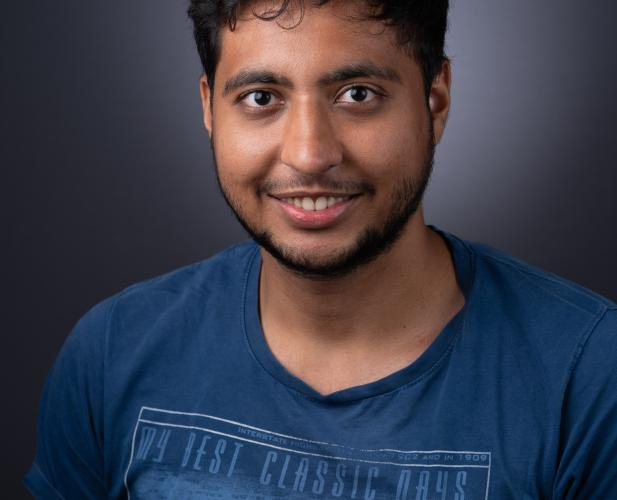
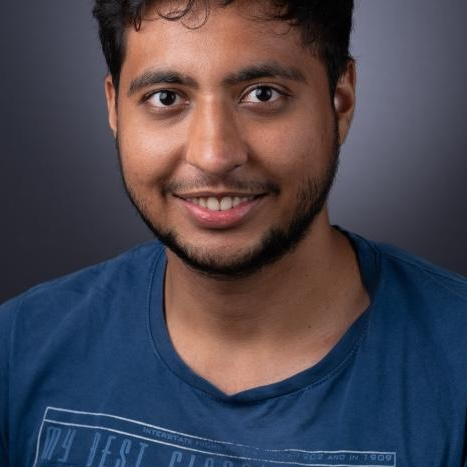
add joey bio picture, adjust pfp sizes, add club photo

diff --git a/index.html b/index.html
@@ -214,7 +214,8 @@
             </header>
 
             <div class="club-photo">
-                <img src="club.jpg" alt="Club Photo" />
+                <img src="club1.jpg" alt="Club Photo" />
+                <!-- <img src="club2.jpg" alt="Club Photo" /> -->
             </div>
 
             <div class="meeting-info">
@@ -421,10 +422,10 @@ In this talk, we’ll see how we can formally model these situations as priority
                 <div
                     class="talk"
                     data-name="Joey Rivkin"
-                    data-bio="Biography forthcoming."
+                    data-bio="Joey Rivkin is a first-year PhD student in theoretical computer science at Cornell University. He is advised by Michael P. Kim. He is interested in learning theory, complexity, and algorithm design. Recently he has focused on designing prediction algorithms that emit provable downstream benefits for decision makers."
                     data-abstract="Abstract forthcoming."
                 >
-                    <img src="profile/example.jpg" alt="Speaker" />
+                    <img src="profile/4-29.jpg" alt="Speaker" />
                     <div>
                         <div class="talk-title">Title TBD</div>
                         <div class="talk-meta">April 29 · Joey Rivkin · Click for details</div>
